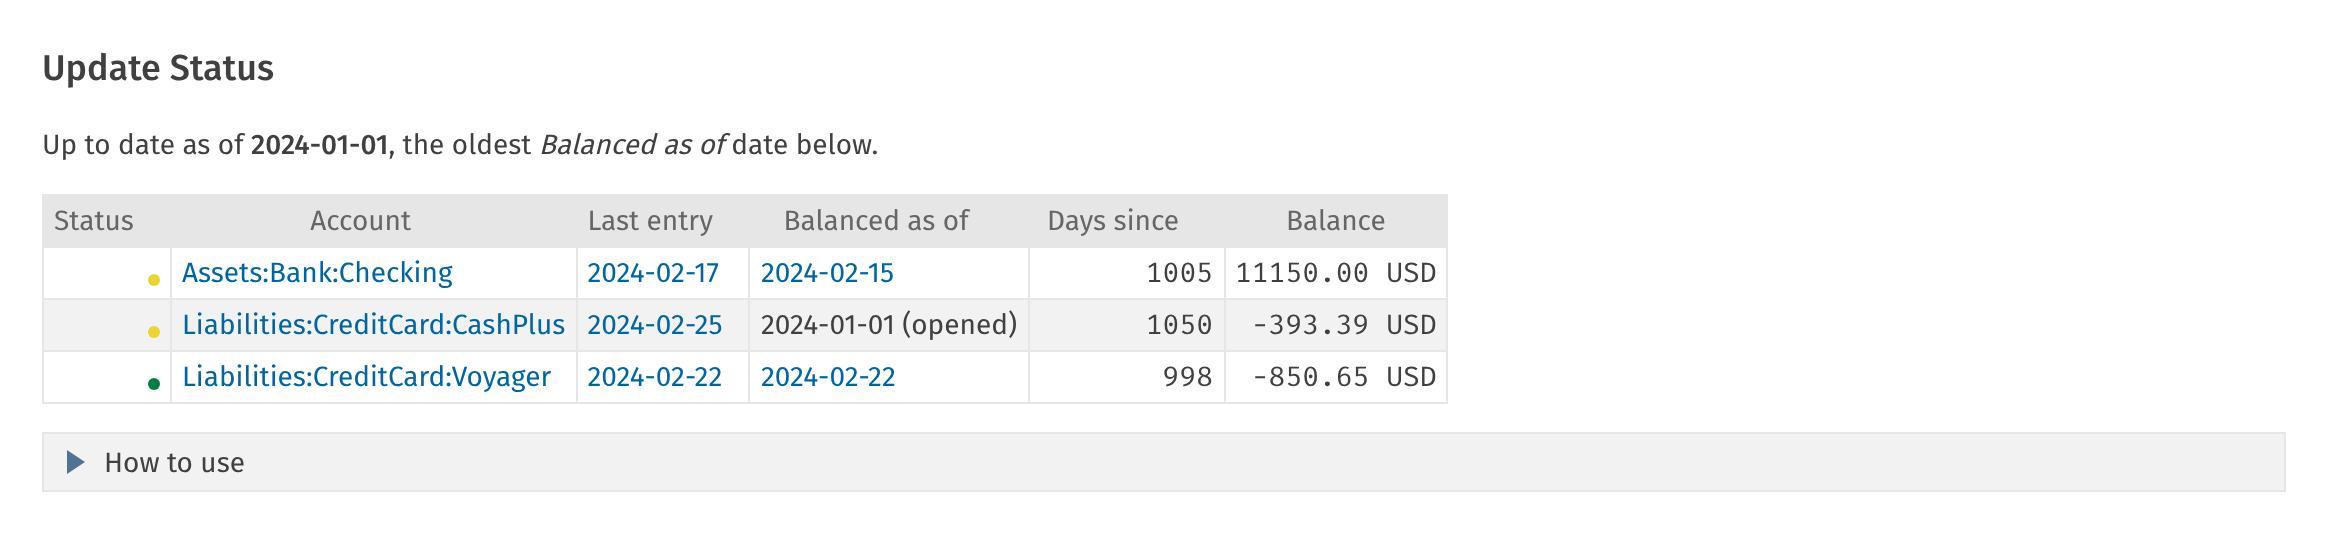
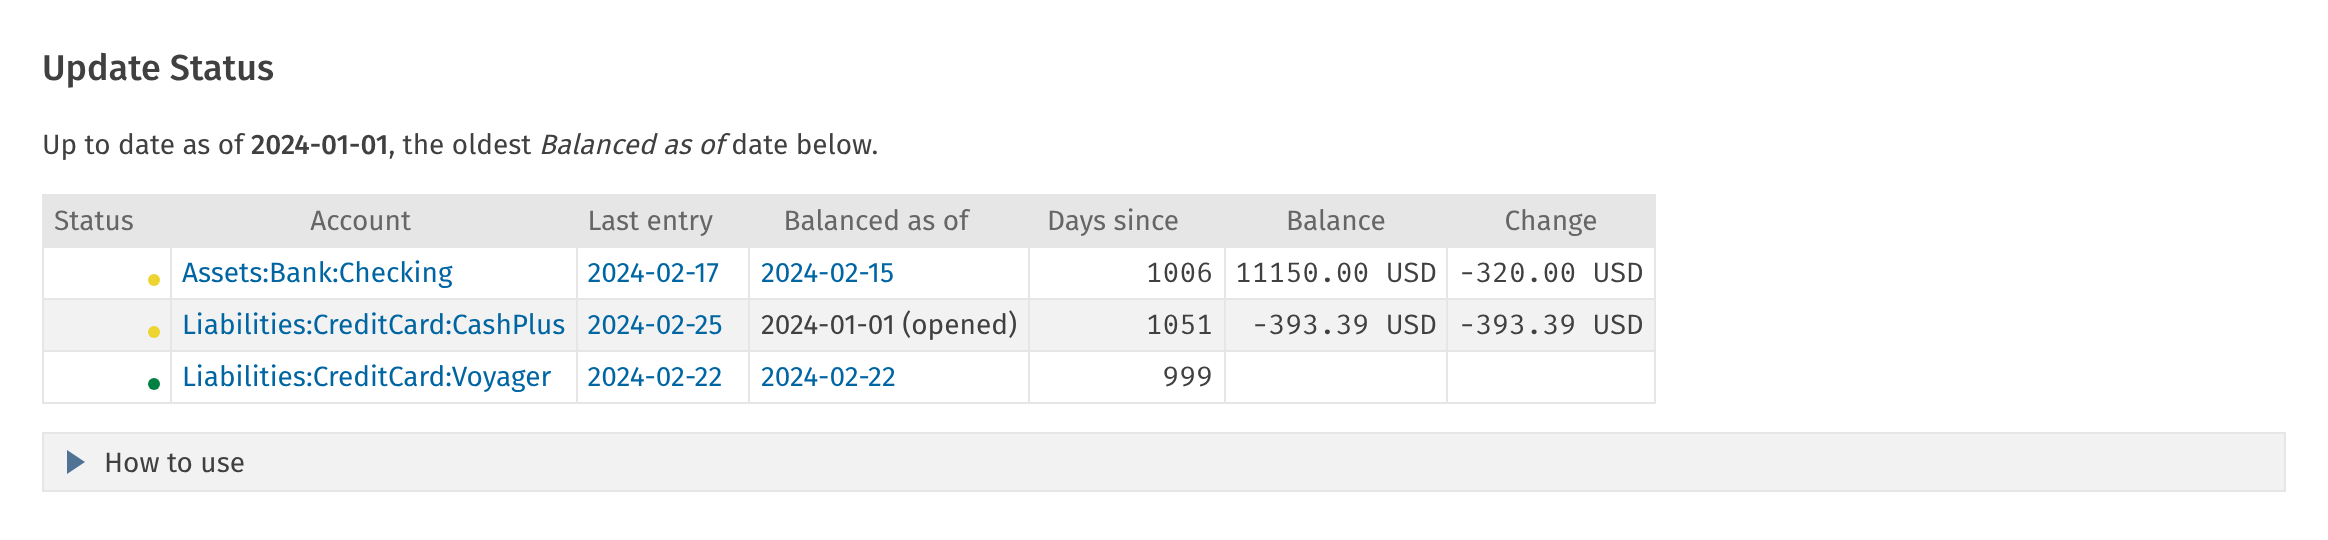
Update Status: show balance and change only for accounts not up to date
For a yellow or red dot, the table shows the account's current balance and
its change since the last passing balance assertion, per currency: what a
new assertion needs to confirm. Both are blank for a green dot. Each
currency's change counts from its own last passing assertion, or from zero
if it's never been asserted.

Claude-Session: https://claude.ai/code/session_01KmgJLZjK5mttXsmcq9tafp

diff --git a/src/beancount_sg/ext/update_status/templates/UpdateStatus.html b/src/beancount_sg/ext/update_status/templates/UpdateStatus.html
@@ -1,3 +1,8 @@
+{# Amounts, one per line. #}
+{% macro amounts(values) -%}
+{%- for amount in values %}{{ amount.number|format_currency(amount.currency) }} {{ amount.currency }}{% if not loop.last %}<br>{% endif %}{% endfor -%}
+{%- endmacro %}
+
 <h2>Update Status</h2>
 
 {% set statuses = extension.statuses() %}
@@ -18,6 +23,7 @@
       <th data-sort="string">Balanced as of</th>
       <th data-sort="num">Days since</th>
       <th>Balance</th>
+      <th>Change</th>
     </tr>
   </thead>
   <tbody>
@@ -43,9 +49,13 @@
         {%- endif -%}
       </td>
       <td class="num">{{ status.days_since_balanced(today) }}</td>
-      <td class="num">
-        {%- for amount in status.balance %}{{ amount.number|format_currency(amount.currency) }} {{ amount.currency }}{% if not loop.last %}<br>{% endif %}{% endfor -%}
-      </td>
+      {% if dot == "green" %}
+      <td></td>
+      <td></td>
+      {% else %}
+      <td class="num">{{ amounts(status.balance) }}</td>
+      <td class="num">{{ amounts(status.change) }}</td>
+      {% endif %}
     </tr>
     {% endfor %}
   </tbody>
@@ -64,6 +74,9 @@
     <li>The status dot is green if the account's last entry is a passing balance assertion, yellow
       if it's a transaction, and red if it's a failing balance assertion. Click a yellow or red dot
       to copy balance directives for today.</li>
+    <li>For a yellow or red dot, <em>Balance</em> is the account's current balance and
+      <em>Change</em> is how much it changed since the last passing balance assertion (per
+      currency): what a new assertion would confirm. Both are blank for a green dot.</li>
     <li><em>Balanced as of</em> is the date of the account's last passing balance assertion, which
       checks the balance at the start of that day; an account that's never been balanced shows the
       date it was opened. <em>Up to date as of</em> is the oldest of these.</li>

diff --git a/src/beancount_sg/ext/update_status/__init__.py b/src/beancount_sg/ext/update_status/__init__.py
@@ -16,7 +16,9 @@ The "Update Status" report lists the open accounts with Fava's
 - The date of its last passing balance assertion, linking to it, and how many
   days ago that was. An account that's never been balanced counts from the
   day it was opened.
-- Its current balance.
+- If its dot isn't green: its current balance, and the change since its last
+  passing balance assertion (per currency), i.e. what a new assertion would need
+  to confirm.
 
 Above the table, "Up to date as of" is the oldest of those dates. A balance
 assertion checks the balance at the start of its day, so it confirms the
@@ -50,20 +52,40 @@ STATUS_ORDER = {"red": 0, "yellow": 1, "green": 2}
 
 @dataclass(frozen=True)
 class AccountStatus:
-    """A tracked account's last passing balance assertion and current balance."""
+    """A tracked account's last passing balance assertions and current balance."""
 
     account: str
     opened: datetime.date
-    last_balance: Balance | None
+    # The last passing balance assertion of each of the account's currencies.
+    last_balances: dict[str, Balance]
     balance: list[Amount]
+
+    @property
+    def last_balance(self) -> Balance | None:
+        """The account's last passing balance assertion, in any currency."""
+        return max(self.last_balances.values(), key=lambda entry: entry.date, default=None)
 
     @property
     def balanced_as_of(self) -> datetime.date:
         """The date of the last passing balance assertion, or else of the open."""
-        return self.last_balance.date if self.last_balance else self.opened
+        last = self.last_balance
+        return last.date if last else self.opened
 
     def days_since_balanced(self, today: datetime.date) -> int:
         return (today - self.balanced_as_of).days
+
+    @property
+    def change(self) -> list[Amount]:
+        """The balance's change since each currency's last passing assertion.
+
+        A currency that's never been asserted changed from zero.
+        """
+        changes: dict[str, Decimal] = defaultdict(Decimal)
+        for amount in self.balance:
+            changes[amount.currency] += amount.number
+        for currency, entry in self.last_balances.items():
+            changes[currency] -= entry.amount.number
+        return [Amount(number, currency) for currency, number in sorted(changes.items()) if number]
 
 
 def account_statuses(entries: Iterable[Directive]) -> list[AccountStatus]:
@@ -75,13 +97,14 @@ def account_statuses(entries: Iterable[Directive]) -> list[AccountStatus]:
         for entry in entries
         if isinstance(entry, Open) and entry.meta.get(UPTODATE_KEY) and entry.account not in closed
     }
-    last_balance: dict[str, Balance] = {}
+    last_balances: dict[str, dict[str, Balance]] = defaultdict(dict)
     balances: dict[str, dict[str, Decimal]] = defaultdict(lambda: defaultdict(Decimal))
     for entry in entries:
         if isinstance(entry, Balance) and entry.account in tracked and not entry.diff_amount:
-            previous = last_balance.get(entry.account)
+            by_currency = last_balances[entry.account]
+            previous = by_currency.get(entry.amount.currency)
             if not previous or entry.date >= previous.date:
-                last_balance[entry.account] = entry
+                by_currency[entry.amount.currency] = entry
         elif isinstance(entry, Transaction):
             for posting in entry.postings:
                 if posting.account in tracked:
@@ -90,7 +113,7 @@ def account_statuses(entries: Iterable[Directive]) -> list[AccountStatus]:
         AccountStatus(
             account,
             opened,
-            last_balance.get(account),
+            last_balances[account],
             [
                 Amount(number, currency)
                 for currency, number in sorted(balances[account].items())

diff --git a/tests/ext/test_update_status.py b/tests/ext/test_update_status.py
@@ -69,7 +69,10 @@ def test_last_passing_balance_and_current_balance():
     assert isinstance(checking.last_balance, Balance)
     assert checking.balance == [A("980.00", "USD")]
     assert checking.days_since_balanced(datetime.date(2024, 3, 11)) == 10
-    assert found["Liabilities:Card"].balance == [A("-50.00", "USD")]
+    assert checking.change == [A("-20.00", "USD")]
+    card = found["Liabilities:Card"]
+    assert card.balance == [A("-50.00", "USD")]
+    assert card.change == []
 
 
 def test_failing_balances_dont_count_and_never_balanced_uses_the_open_date():
@@ -78,6 +81,37 @@ def test_failing_balances_dont_count_and_never_balanced_uses_the_open_date():
     assert vti.last_balance is None
     assert vti.balanced_as_of == datetime.date(2020, 1, 1)
     assert vti.balance == [A("3", "VTI")]
+    assert vti.change == [A("3", "VTI")]
+
+
+def test_change_is_per_currency():
+    found, _ = statuses("""
+2020-01-01 open Equity:Opening
+2020-01-01 open Assets:Wallet
+  fava-uptodate-indication: TRUE
+
+2024-01-01 * "Opening"
+  Assets:Wallet  100 USD
+  Assets:Wallet  50 EUR
+  Equity:Opening  -100 USD
+  Equity:Opening  -50 EUR
+
+2024-02-01 balance Assets:Wallet  100 USD
+2024-01-15 balance Assets:Wallet  50 EUR
+
+2024-02-05 * "Spend"
+  Assets:Wallet  -10 USD
+  Assets:Wallet  -5 EUR
+  Equity:Opening  10 USD
+  Equity:Opening  5 EUR
+
+2024-02-06 * "New currency"
+  Assets:Wallet  7 GBP
+  Equity:Opening  -7 GBP
+""")
+    wallet = found["Assets:Wallet"]
+    assert wallet.balanced_as_of == datetime.date(2024, 2, 1)
+    assert wallet.change == [A("-5", "EUR"), A("7", "GBP"), A("-10", "USD")]
 
 
 def page(tmp_path, text=LEDGER, query=""):
@@ -106,12 +140,15 @@ def test_page_lists_accounts_with_status_and_dates(tmp_path):
     checking = row(body, "Assets:Checking")
     assert 'class="status-indicator status-yellow"' in checking
     assert "2024-03-05" in checking  # last entry
-    assert "980.00 USD" in checking
+    assert "980.00 USD" in checking  # balance
+    assert "-20.00 USD" in checking  # change since the last passing assertion
     card = row(body, "Liabilities:Card")
     assert 'class="status-indicator status-green"' in card
+    assert "USD" not in card  # no balance or change when green
     vti = row(body, "Assets:Brokerage:VTI")
     assert 'class="status-indicator status-red"' in vti
     assert "2020-01-01 (opened)" in text(vti)
+    assert text(vti).strip().endswith("3 VTI 3 VTI")  # balance, and change since opening
     table = body[body.index("<table") : body.index("</table>")]
     assert "Assets:Untracked" not in table
     assert "Assets:Old" not in table

diff --git a/docs/fava/update-status.md b/docs/fava/update-status.md
@@ -34,7 +34,9 @@ Each tracked account has:
 - **Balanced as of:** the date of its last passing balance assertion, or the date it was opened if
   it's never been balanced.
 - **Days since:** days from that date to today.
-- **Balance:** its current balance.
+- **Balance** and **Change**, only if the dot isn't green: the account's current balance, and how
+  much it changed since its last passing balance assertion, per currency. That's what a new
+  assertion needs to confirm. A currency that's never been asserted counts from zero.
 
 **Up to date as of**, above the table, is the oldest *Balanced as of* date. A balance assertion
 checks the balance at the start of its day, so it confirms the transactions before that date.

diff --git a/README.md b/README.md
@@ -163,8 +163,8 @@ spend and value by card and category. Categories link to the card's transactions
 ```
 
 An "Update Status" report of the accounts with Fava's `fava-uptodate-indication`: each one's
-status, last entry, last passing balance assertion and current balance, and the oldest of those
-balance dates. [Docs](docs/fava/update-status.md)
+status, last entry and last passing balance assertion, the oldest of those balance dates, and for
+accounts that aren't up to date, the balance and its change since the last assertion. [Docs](docs/fava/update-status.md)
 
 ## Utilities
 
